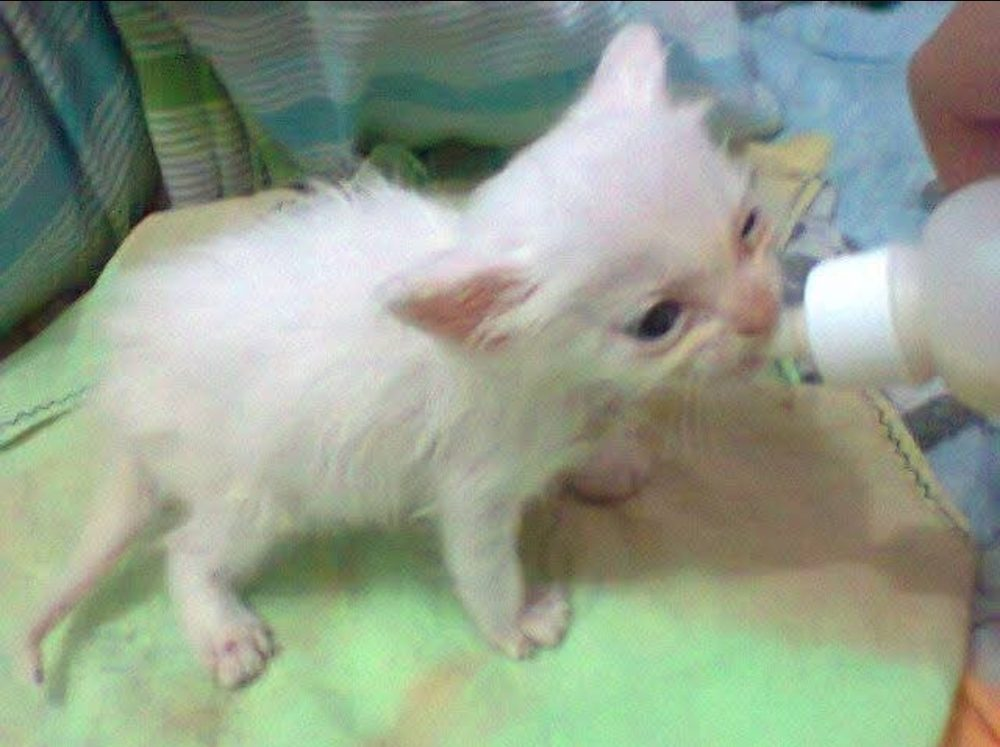
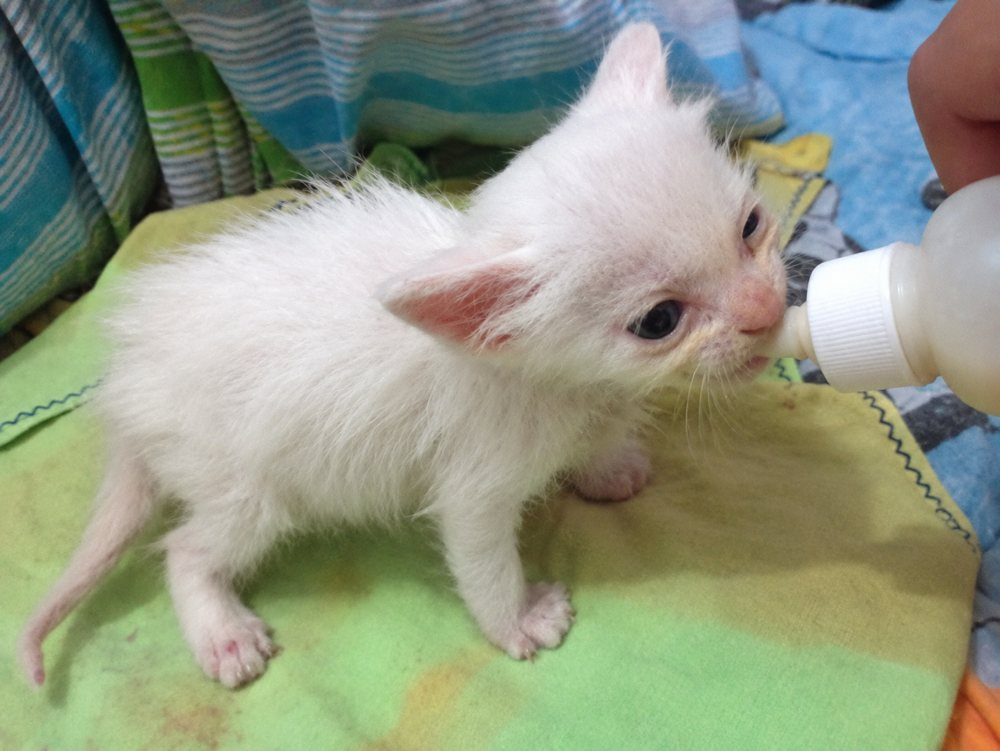
Nova foto do filhote branco e correção do tamanho nos cartões

diff --git a/artigos/index.html b/artigos/index.html
@@ -55,7 +55,7 @@
         <p class="lead">Guias práticos de quem resgata e cuida de bichos todos os dias.</p>
         <div class="lista-artigos">
           <a class="cartao-artigo" href="como-cuidar-de-gatinho-recem-nascido-sem-mae.html">
-            <img class="cartao-img" src="img/filhote-branco-mamadeira.jpg" width="1000" height="747" alt="Filhote branco de gato mamando na mamadeira" loading="lazy">
+            <img class="cartao-img" src="img/filhote-branco-mamadeira.jpg" width="1000" height="751" alt="Filhote branco de gato mamando na mamadeira" loading="lazy">
             <span class="etiqueta">Gatos · Filhotes</span>
             <h3>Como cuidar de um gatinho recém-nascido sem mãe</h3>
             <p>Calor, leite certo, mamadas, xixi e cocô, peso e sinais de alerta: o passo a passo para as primeiras semanas.</p>

diff --git a/artigos/como-cuidar-de-gatinho-recem-nascido-sem-mae.html b/artigos/como-cuidar-de-gatinho-recem-nascido-sem-mae.html
@@ -187,7 +187,7 @@
           <li>Pare quando ele largar o bico ou a barriguinha estiver redonda, sem ficar dura ou estufada.</li>
         </ul>
         <figure class="foto-artigo">
-          <img src="img/filhote-branco-mamadeira.jpg" width="1000" height="747" alt="Filhote branco de gato mamando na mamadeira, apoiado de barriga para baixo sobre uma manta" loading="lazy">
+          <img src="img/filhote-branco-mamadeira.jpg" width="1000" height="751" alt="Filhote branco de gato mamando na mamadeira, apoiado de barriga para baixo sobre uma manta" loading="lazy">
           <figcaption>A posição certa: de barriga para baixo, com a cabeça apoiada, como se estivesse mamando na mãe.</figcaption>
         </figure>
 

diff --git a/index.html b/index.html
@@ -121,7 +121,7 @@
               <p>Encontrou um filhote sozinho? Calor, leite certo, mamadas, xixi e cocô, peso e sinais de alerta: o passo a passo para as primeiras semanas.</p>
               <span class="ler-mais">Ler o guia completo →</span>
             </div>
-            <img src="artigos/img/filhote-branco-mamadeira.jpg" width="1000" height="747" alt="Filhote branco de gato mamando na mamadeira" loading="lazy">
+            <img src="artigos/img/filhote-branco-mamadeira.jpg" width="1000" height="751" alt="Filhote branco de gato mamando na mamadeira" loading="lazy">
           </a>
         </div>
       </div>

diff --git a/css/style.css b/css/style.css
@@ -404,3 +404,8 @@ body { overflow-x: hidden; }
   .cartao-artigo.destaque { grid-template-columns: 1fr; gap: 18px; }
   .cartao-artigo.destaque > img { order: -1; }
 }
+
+/* foto do cartão: o atributo height do <img> estava esticando a imagem */
+.cartao-artigo.destaque > img { height: 260px; aspect-ratio: auto; object-position: 50% 40%; }
+.cartao-img { height: 200px; aspect-ratio: auto; }
+@media (max-width: 800px) { .cartao-artigo.destaque > img { height: 220px; } }
